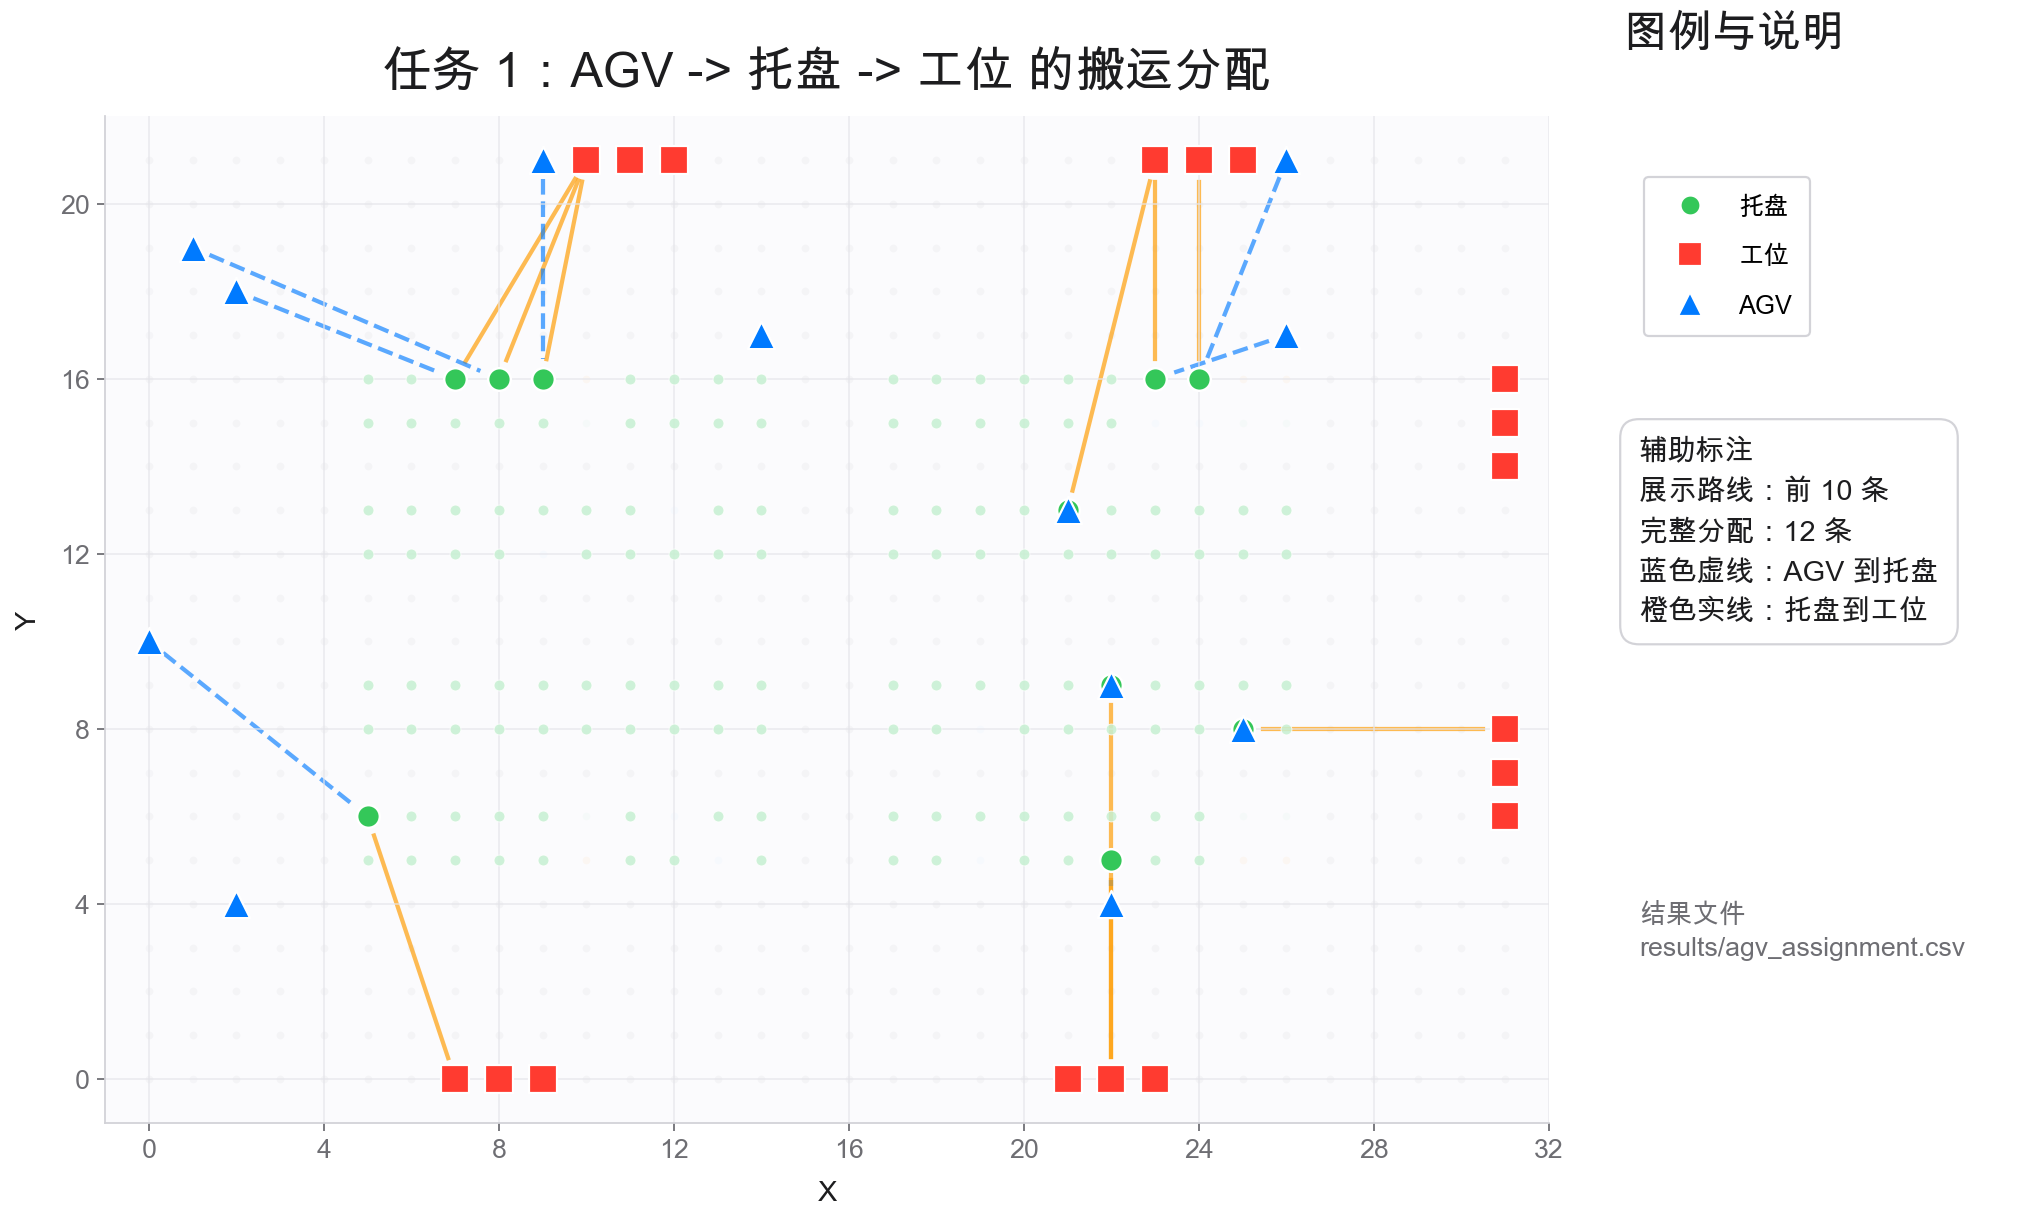
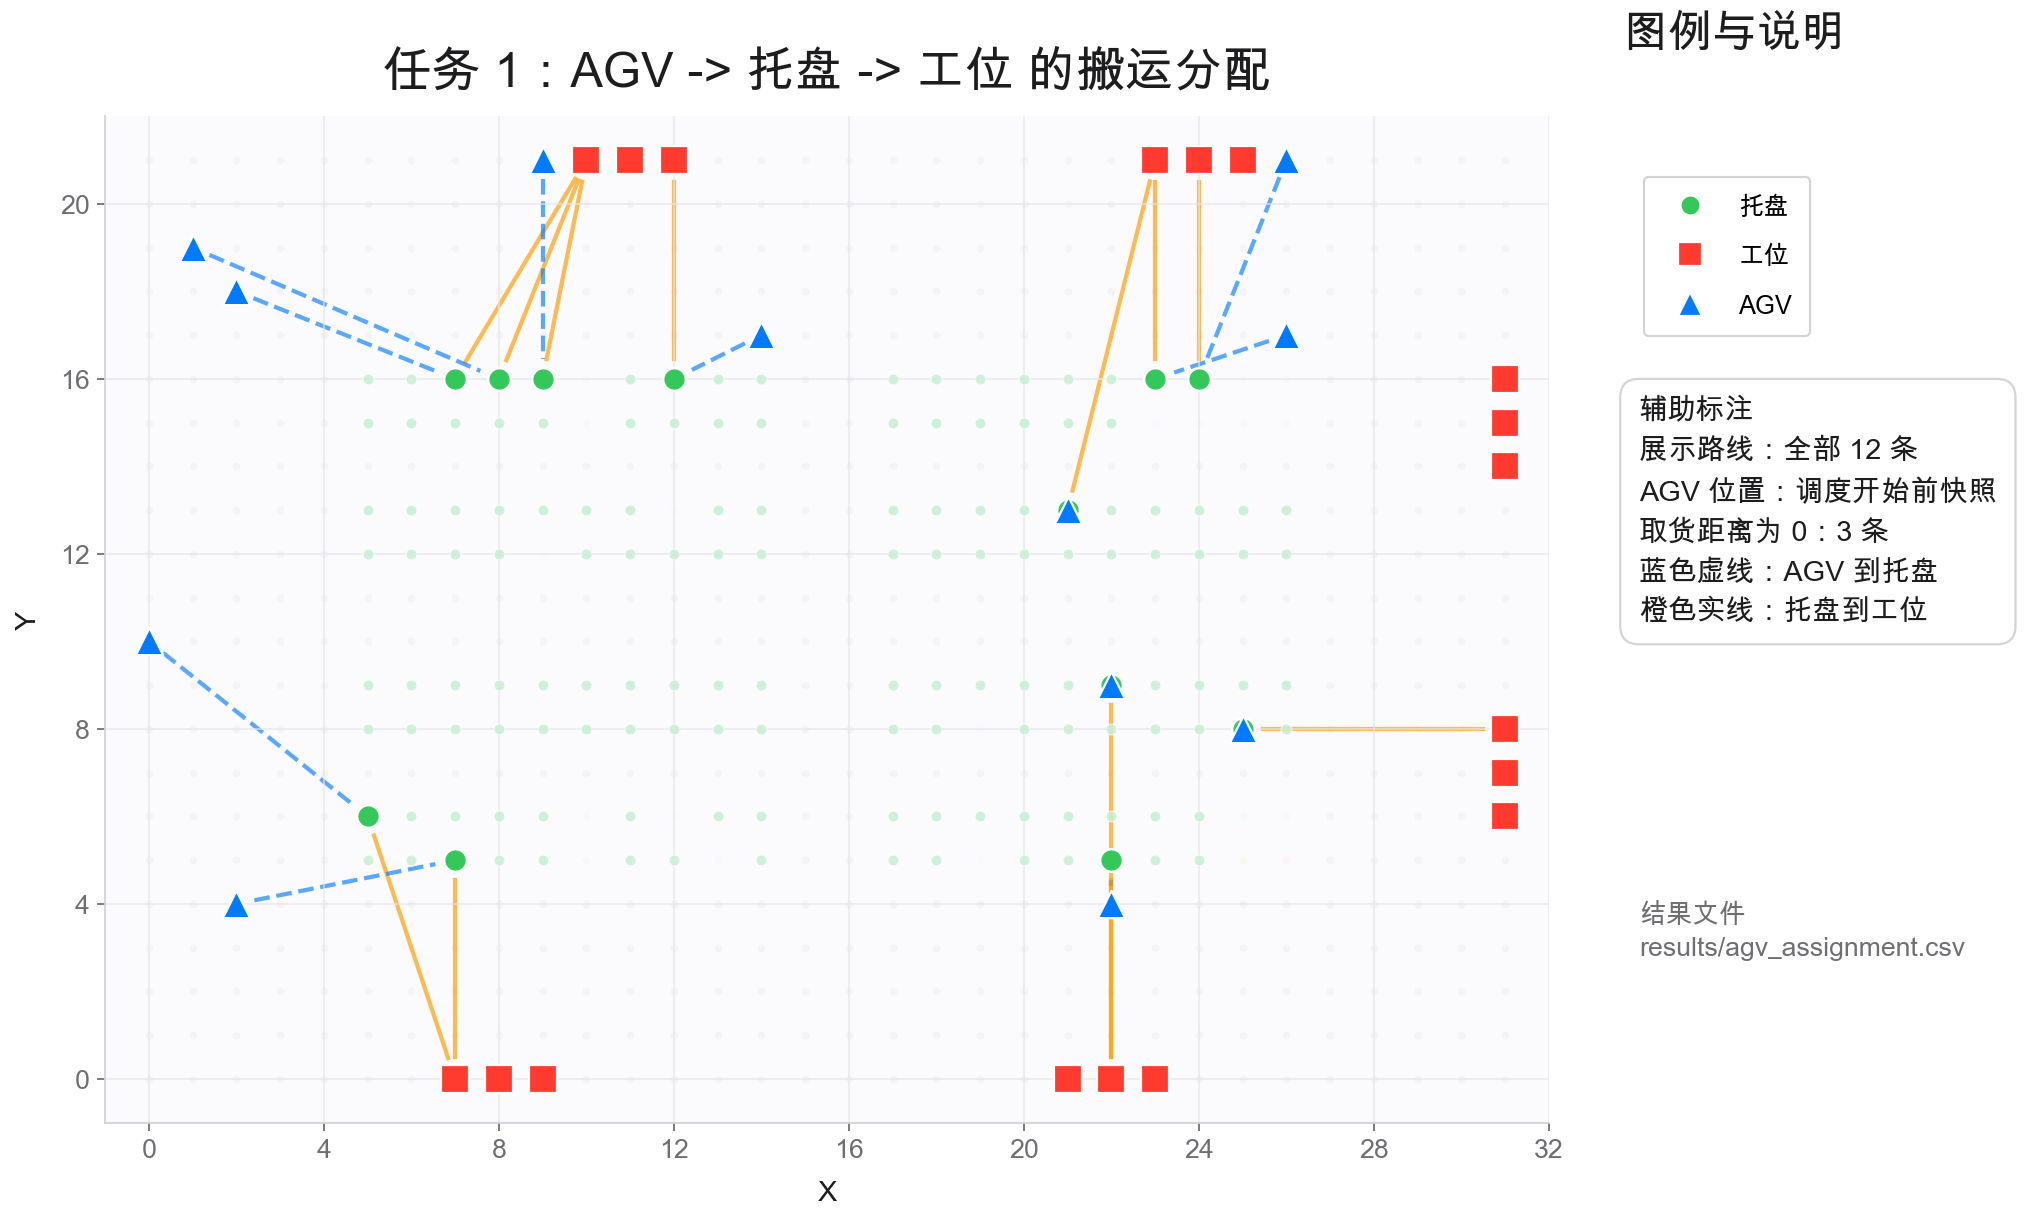
Clarify AGV initial positions in figures

diff --git a/scripts/make_readme_figures.py b/scripts/make_readme_figures.py
@@ -303,6 +303,7 @@ def draw_background_overview() -> None:
 def draw_task1_assignment() -> None:
     data = load_data(agv_sample_prob=0.6, seed=0, max_agvs=12)
     assignments = pd.read_csv(RESULTS_DIR / "agv_assignment.csv")
+    zero_pickups = 0
 
     fig = plt.figure(figsize=(15.5, 8.8), dpi=160)
     gs = fig.add_gridspec(1, 2, width_ratios=[1.25, 0.35], wspace=0.08)
@@ -325,11 +326,13 @@ def draw_task1_assignment() -> None:
         zorder=3,
     )
 
-    shown = assignments.head(10)
+    shown = assignments
     for row in shown.itertuples(index=False):
         agv = agvs[int(row.agv_index)]
         pallet = pallets[int(row.pallet_index)]
         workstation = workstations[int(row.workstation_index)]
+        if np.array_equal(agv, pallet):
+            zero_pickups += 1
         pickup_start, pickup_end = shortened_segment(
             agv,
             pallet,
@@ -406,8 +409,9 @@ def draw_task1_assignment() -> None:
         0.04,
         0.50,
         "辅助标注\n"
-        f"展示路线：前 {len(shown)} 条\n"
-        f"完整分配：{len(assignments)} 条\n"
+        f"展示路线：全部 {len(shown)} 条\n"
+        "AGV 位置：调度开始前快照\n"
+        f"取货距离为 0：{zero_pickups} 条\n"
         "蓝色虚线：AGV 到托盘\n"
         "橙色实线：托盘到工位",
         transform=ax_info.transAxes,

diff --git a/README.en.md b/README.en.md
@@ -54,8 +54,11 @@ computable, reproducible, and explainable optimization models:
 
 The project uses the following warehouse entities:
 
-- **AGV**: an automated guided vehicle. In Task 1, an AGV moves from its
-  current position to a pallet, picks it, and delivers it to a workstation.
+- **AGV**: an automated guided vehicle. In the figures, AGV coordinates are
+  the initial vehicle positions before the dispatching batch starts, i.e. the
+  `t0` state snapshot. They are not historical trajectory points or final
+  positions after task completion. In Task 1, an AGV moves from this initial
+  position to a pallet, picks it, and delivers it to a workstation.
 - **Pallet**: a standardized load unit. `pallets.csv` gives each pallet's
   coordinate, pallet ID, and SKU quantities. The model aggregates SKU
   quantities into a total pallet quantity.
@@ -123,7 +126,9 @@ The data relationships are:
   workstations are located.
 - `pallets.csv` describes inventory state: where goods are stored and how much
   quantity each pallet contains.
-- `bots.csv` describes fleet state: which AGVs can depart from which positions.
+- `bots.csv` describes fleet state: before dispatching starts, which AGVs can
+  depart from which positions. Therefore, the blue triangles in Figures 1 and
+  2 have the same meaning: initial AGV positions for the current batch.
 - `orders.csv` describes demand context. Its total demand is 8478, matching the
   total pallet quantity of 8478, so it explains the business scale of the
   current inventory/demand batch.
@@ -219,6 +224,15 @@ A result row can be read as:
 ```text
 AGV i moves from its current position, picks pallet j, and delivers it to workstation k.
 ```
+
+Here, "current position" means the AGV initial position at dispatching time
+`t0`. The blue triangles are not vehicle trajectories; they are starting
+positions read from `bots.csv`. Each blue dashed line is the pickup segment
+from AGV to pallet, and each orange solid line is the delivery segment from
+pallet to workstation. If an AGV's initial position is exactly the same as its
+assigned pallet coordinate, the pickup distance is zero, so no visible blue
+dashed line appears. This means the AGV is already at the pallet location, not
+that it was left unassigned.
 
 Poor assignment causes empty travel, detours, and workstation waiting. A good
 assignment reduces pickup and delivery distance for the current dispatching
